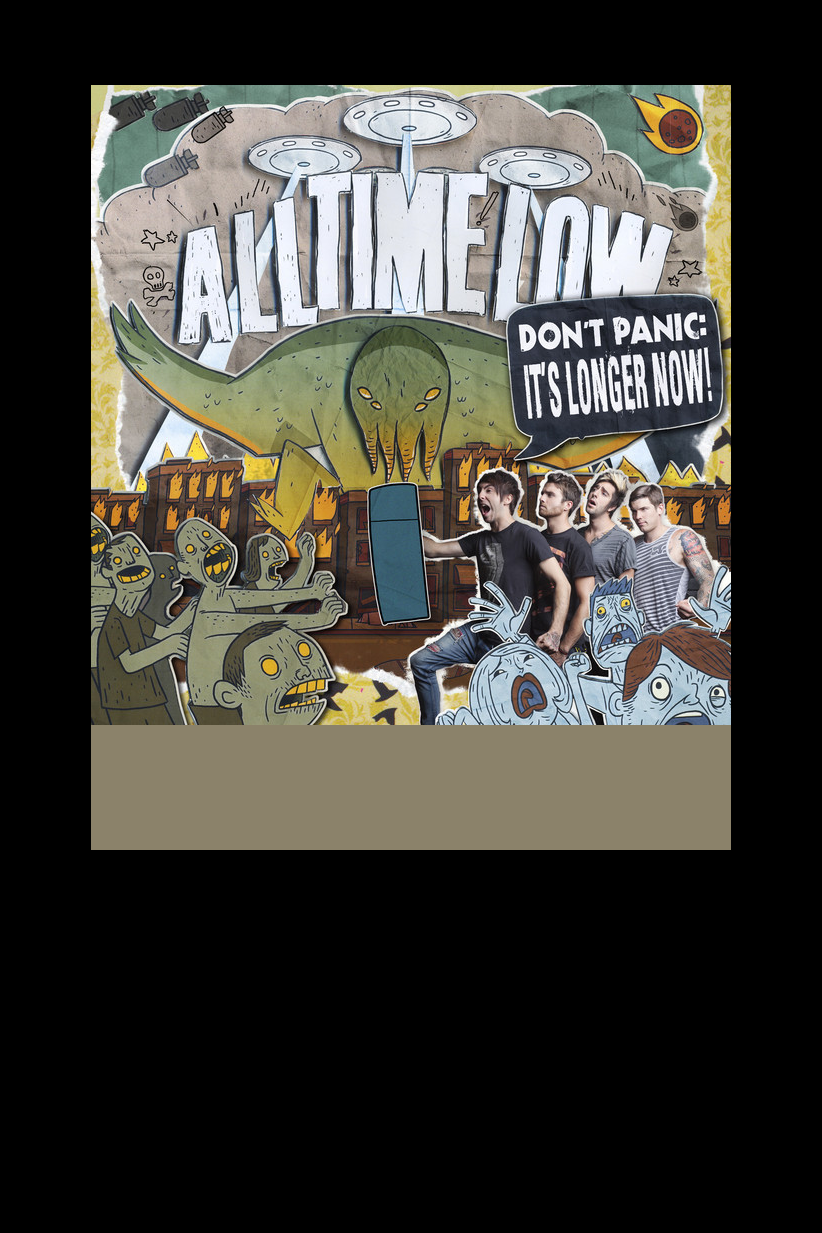
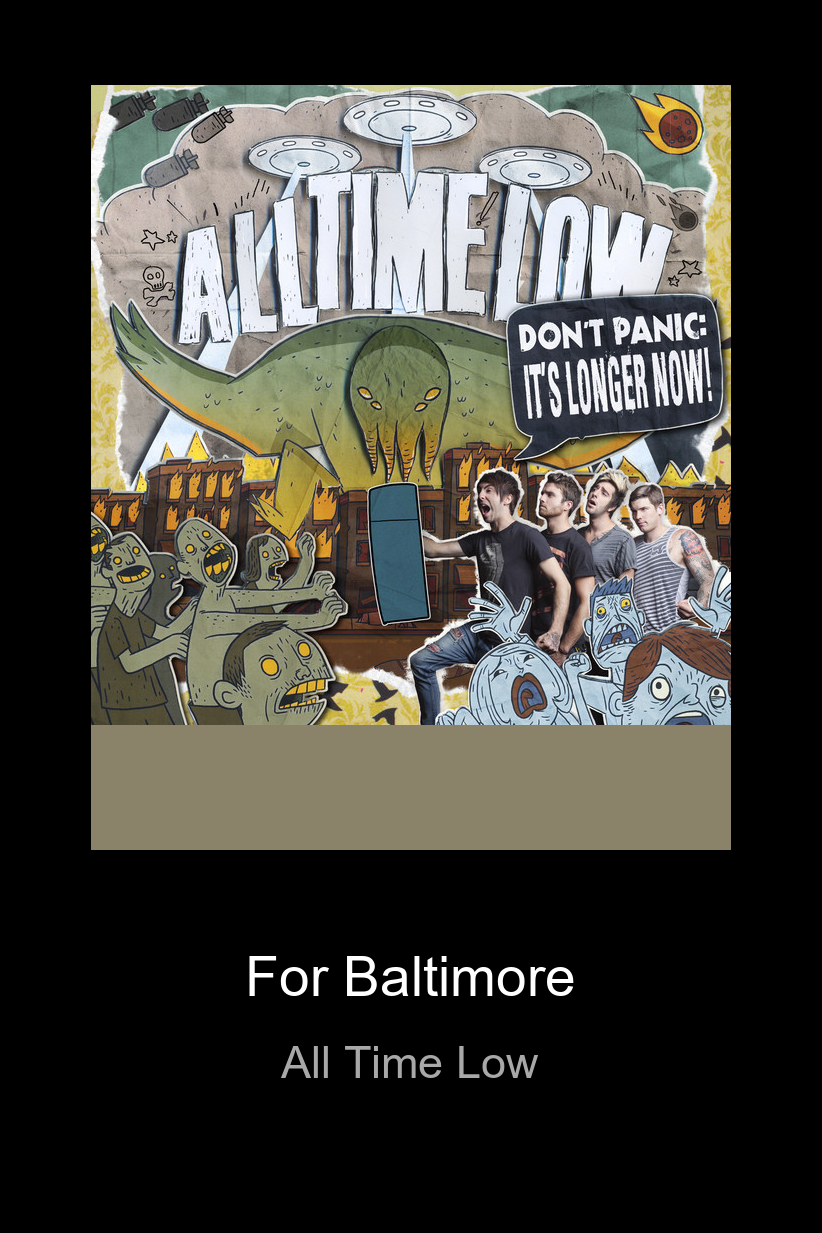
adding the text to the images

Changed region(s): [[0.3041, 0.7705, 0.6995, 0.8938], [0.3345, 0.8321, 0.3954, 0.8938]]

diff --git a/src/Main.py b/src/Main.py
@@ -6,7 +6,7 @@ from BarCodeColorGeneration import generateStoreBarCodeBackground
 from BarCodeColorGeneration import altGenerateStoreBarCodeBackground
 
 from LayerImages import layerImage
-from LayerImages import layerText
+from LayerImages import layerTrackAndArtistText
 from LayerImages import createBackgroundImage
 
 
@@ -18,44 +18,30 @@ def main():
     backgoundImageName = "backgroundImage.png"
     totalHeight = 1233
     totalWidth = 822
+    barcodeHeight = 125
+    barcodeWidth = 640
 
     # keys, artistName, trackName, albumImageUrl, albumImageHeight, albumImageWidth, albumName
     trackArray = getPlaylistInformation(playlistId, userName)
     print(trackArray)
 
     for i in range(0, len(trackArray)):
-        photoKey = trackArray[i]['photoKey']
-        getStoreAlbumArt(trackArray[i]['albumImageUrl'], "albumArt", photoKey)
+        currentTrack = trackArray[i]
+        photoKey = currentTrack['photoKey']
+        getStoreAlbumArt(currentTrack['albumImageUrl'], "albumArt", photoKey)
         createBackgroundImage(totalHeight, totalWidth, backgoundImageName)
 
 
-        generateStoreBarCodeBackground("./albumArt/" + photoKey, "barcodeArt",  photoKey, 640, 125)
-        #altGenerateStoreBarCodeBackground("./albumArt/" + photoKey + ".png", trackArray[i]["photoKey"] + ".png")
+        generateStoreBarCodeBackground("./albumArt/" + photoKey, "barcodeArt",  photoKey, barcodeWidth, barcodeHeight)
+        #altGenerateStoreBarCodeBackground("./albumArt/" + photoKey + ".png", currentTrack["photoKey"] + ".png")
 
         layerImage(backgoundImageName, "./albumArt/" + photoKey, "merging",photoKey, 91,85)
         layerImage("./merging/" + photoKey , "./barcodeArt/" + photoKey ,"merging",photoKey, 91,725)
 
-        
+        layerTrackAndArtistText("./merging/" + photoKey, currentTrack['trackName'], currentTrack['artistName'],
+                                "./merging/" + photoKey, 55,
+                                totalWidth, totalHeight - (725 + barcodeHeight), 725 + barcodeHeight)
 
-
-
-    #Get playlist song list
-
-        #Grab song 1
-
-        #Grab artist, title, album art (/download album art as saved image)
-
-        #generate barcode background
-
-        #layer images
-
-            #layer album
-
-            #layer barcode background
-
-            #layer barcode logo and barcode
-
-            #layer Text and Text
 
     print("ending script")
 

diff --git a/src/LayerImages.py b/src/LayerImages.py
@@ -1,3 +1,5 @@
+from PIL import ImageFont
+from PIL import ImageDraw
 from PIL import Image
 import os
 
@@ -20,5 +22,16 @@ def layerImage(backgroundPath, foregroundPath, storagePath,photoKey, x, y):
     background.save(storagePath + "/" + photoKey)
 
 
-def layerText(currentImageToLayerOn, textToLayer):
+def layerTrackAndArtistText(fileInPath, trackName, artistName, fileOutPath, fontsize, xTotal, yTotal, yoffset):
     print("layering Text")
+
+    img = Image.open(fileInPath)
+    draw = ImageDraw.Draw(img)
+    fontTrack = ImageFont.truetype('arial', fontsize)
+    fontArtist = ImageFont.truetype('arial', fontsize - 10)
+    w_artist,h_artist = draw.textsize(artistName, fontArtist)
+    w_track,h_track = draw.textsize(trackName, fontTrack)
+    center_height = ((yTotal - (h_track + h_artist)) / 2) + yoffset
+    draw.text(((xTotal-w_track)/2, center_height - h_track), trackName, (255, 255, 255), font=fontTrack)
+    draw.text(((xTotal-w_artist)/2, center_height + h_artist), artistName, (168, 168, 168), font=fontArtist)
+    img.save(fileOutPath)
